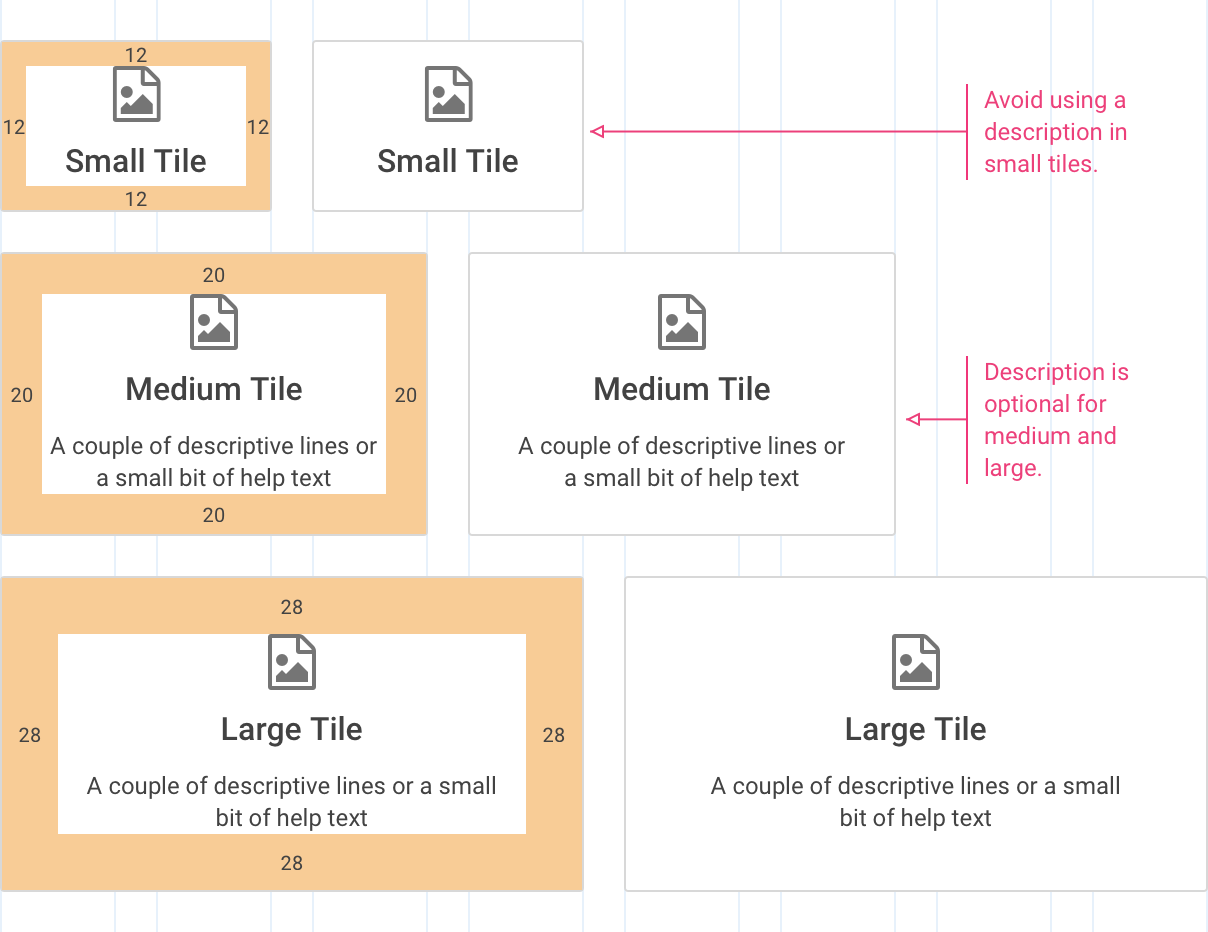
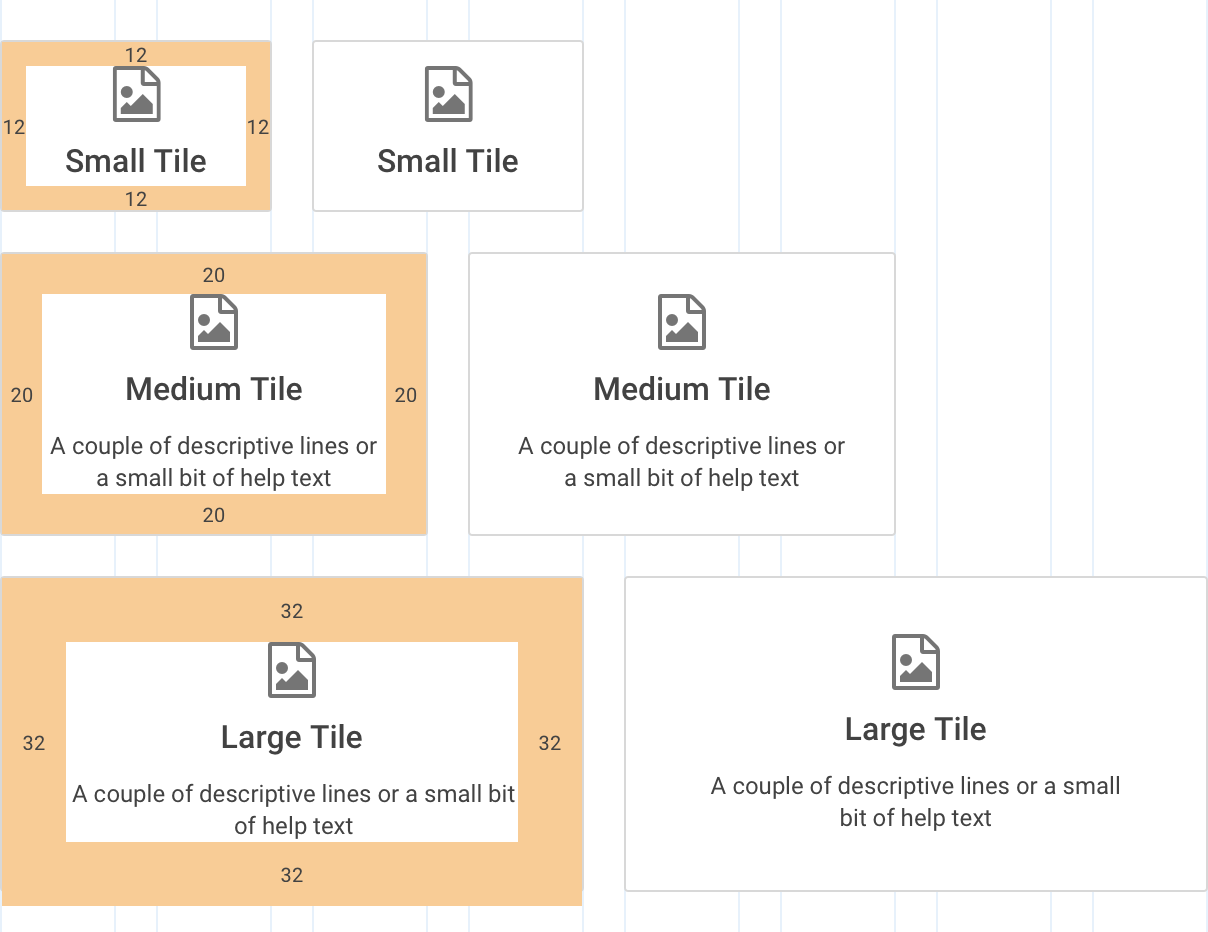
update(visual): replaced contrainer sizing visual

Changed region(s): [[0.0, 0.6534, 0.4901, 0.9957], [0.4901, 0.0933, 0.9495, 0.1867], [0.7657, 0.3734, 0.9189, 0.529]]

diff --git a/_docs/style/spacing.md b/_docs/style/spacing.md
@@ -3,10 +3,10 @@ title: Spacing
 layout: docs
 category: Style
 usage: >
-  The Helix spacing system provides a set of values you can use when you determine the amount of space between user interface (UI) components. By applying these spacing values consistently you adhere to accessibility guidelines and improve the readability of control panel pages.
+    The Helix spacing system provides a set of values that you can use to consistently space user interface (UI) components. By applying these spacing values consistently, you adhere to Helix accessibility guidelines and can improve the readability of control panel pages.
 status: stable
 resource: true
-last-modified: 2019-01-23
+last-modified: 2019-01-28
 ---
 
 {% include toc.html %}
@@ -16,8 +16,6 @@ last-modified: 2019-01-23
 <div class="hxRow" markdown="1">
 
 {% column left:"hxCol hxSpan-12-xs hxSpan-12-sm hxSpan-12-md hxSpan-12-lg" %}
-
-The document provides guidelines you should use when deciding on spacing values between and among user interface components. Specific values are provided, with justification for why we recommend them.
 
 The Helix spacing system applies to three areas of a user interface (UI): container, content, and component.
 
@@ -43,7 +41,7 @@ Consider the following best practices when you apply the Helix spacing system:
 
 - In most cases, use medium spacing (20px) as the default.
 - When choosing spacing values for a new design, consider the user's needs and use case. Use small spacing when users prefer greater data density. Use large spacing to increase whitespace, which can help enhance user comprehension.
-- Avoid uneven spacing (padding) on containers. In the majority of cases, containers must use square Inset spacing, which means that the top, right, bottom, and left spacing values are equal inside the container.
+- Avoid uneven spacing (padding) on containers. In the majority of cases, containers must use square inset spacing, which means that the top, right, bottom, and left spacing values are equal inside the container.
 
 {% endcolumn %}
 
@@ -59,7 +57,7 @@ Consider the following best practices when you apply the Helix spacing system:
 
 ## Container spacing
 
-Pages, cards, modals, panels, and choice tiles are examples of containers that frame content within a UI. By default, apply a square inset of 20px to the top, right, bottom, and left side of the container. The 20px is the medium spacing value and you can use smaller or larger spacing, if required.
+Pages, cards, modals, panels, and option tiles are examples of containers that frame content within a UI. By default, apply a square inset of 20px to the top, right, bottom, and left side of the container. The 20px is the medium spacing value and you can use smaller or larger spacing, if required.
 
 {% figure [caption: "Helix containers"] [class:"image bg-light border"] %}
 <embed src="{{site.url}}/assets/images/style/spacing/spacing-container-types.png" width="635"/>
@@ -79,16 +77,13 @@ Pages, cards, modals, panels, and choice tiles are examples of containers that f
 
 ### Container spacing variants
 
-In some cases you may be required to use smaller or larger spacing than the 20px default value. Use the following spacing values to apply extra-small through extra-extra-large spacing. Keep in mind that large spacing can result in too much whitespace while small spacing can lead to a data dense UI, which can be difficult for a user to process.
+In some cases you may be required to use smaller or larger spacing than the 20px default value. Keep in mind that large spacing can result in too much whitespace and small spacing can lead to a data dense UI, which can be difficult for a user to process.
 
-- **Extra-small (XS) = 8px**
 - **Small (SM) = 12px**
 - **Medium (MD) = 20px**
 - **Large (LG) = 32px**
-- **Extra-large (XL) = 48px**
-- **Extra-extra-large (XXL) = 72px**
 
-In addition, some elements, such as a dashboard panel, requires no inset spacing when displaying edge-to-edge, body content.
+In addition, some elements, such as a dashboard panel, require no inset spacing when displaying edge-to-edge, body content.
 
 {% endcolumn %}
 
@@ -133,7 +128,7 @@ Apply a *stack* value to the space below a [header](#headers) (8px) and [body el
 
 {% column left:"hxCol hxSpan-12-xs hxSpan-12-sm hxSpan-4-md hxSpan-4-lg" %}
 
-**Baseline value**: The Helix spacing system uses four as the baseline number on which all other spatial values are calculated. For example, the font size value for all headings are multiples of four. The baseline value helps you build consistency into your layout.
+**Baseline value**: The Helix spacing system uses 4 as the baseline number on which all other spatial values are calculated. For example, the font size value for all headings are multiples of 4. The baseline value helps you build consistency into your layout.
 
 **1.5 line-height ratio**: The helix spacing system line-height ratio is taken from the WCAG SC 1.4.8 guidelines that state line spacing should be at least 1.5x the size of the font. This amount of spacing enables people of different abilities to more easily track and comprehend information.
 
@@ -286,7 +281,7 @@ Components such as buttons, text inputs, and date pickers are often placed besid
 
 {% column left:"hxCol hxSpan-12-xs hxSpan-12-sm hxSpan-4-md hxSpan-4-lg" %}
 
-**Spacing inside components**: Within a component, use 8px spacing for the left and right padding.
+**Spacing inside components**: Within a component, use 12px spacing for the left and right padding.
 
 **Spacing between components**: In most cases, use 8px spacing between adjacent components.
 
